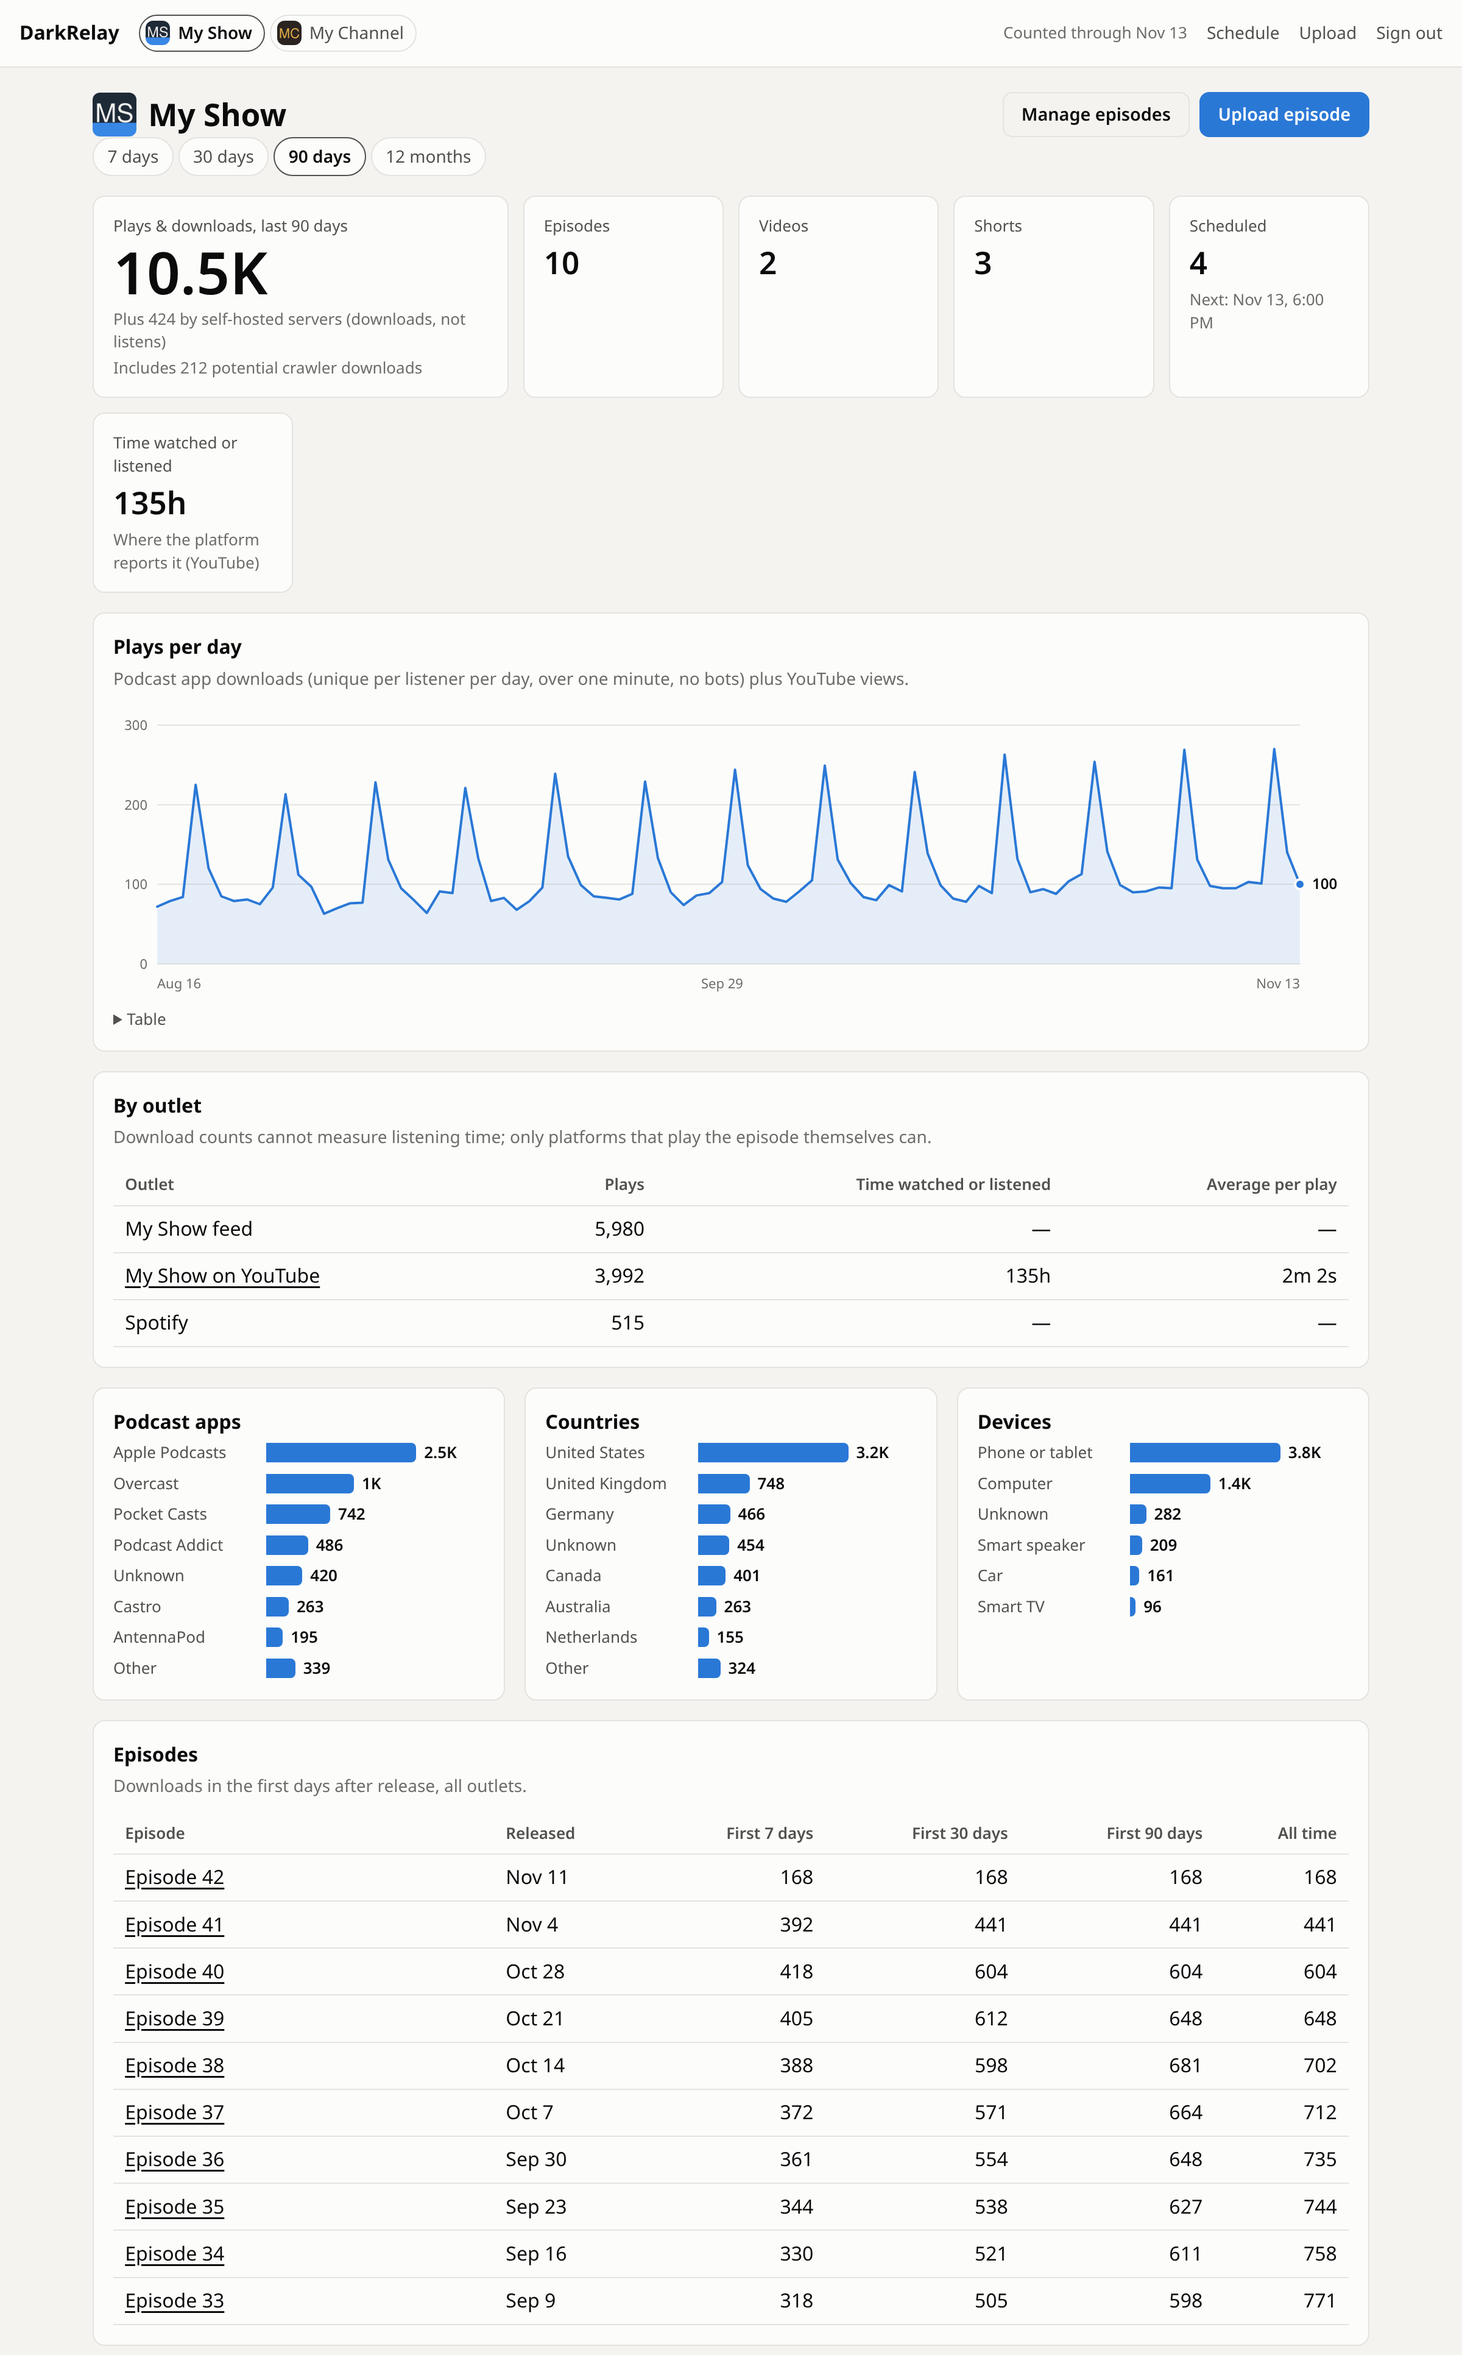
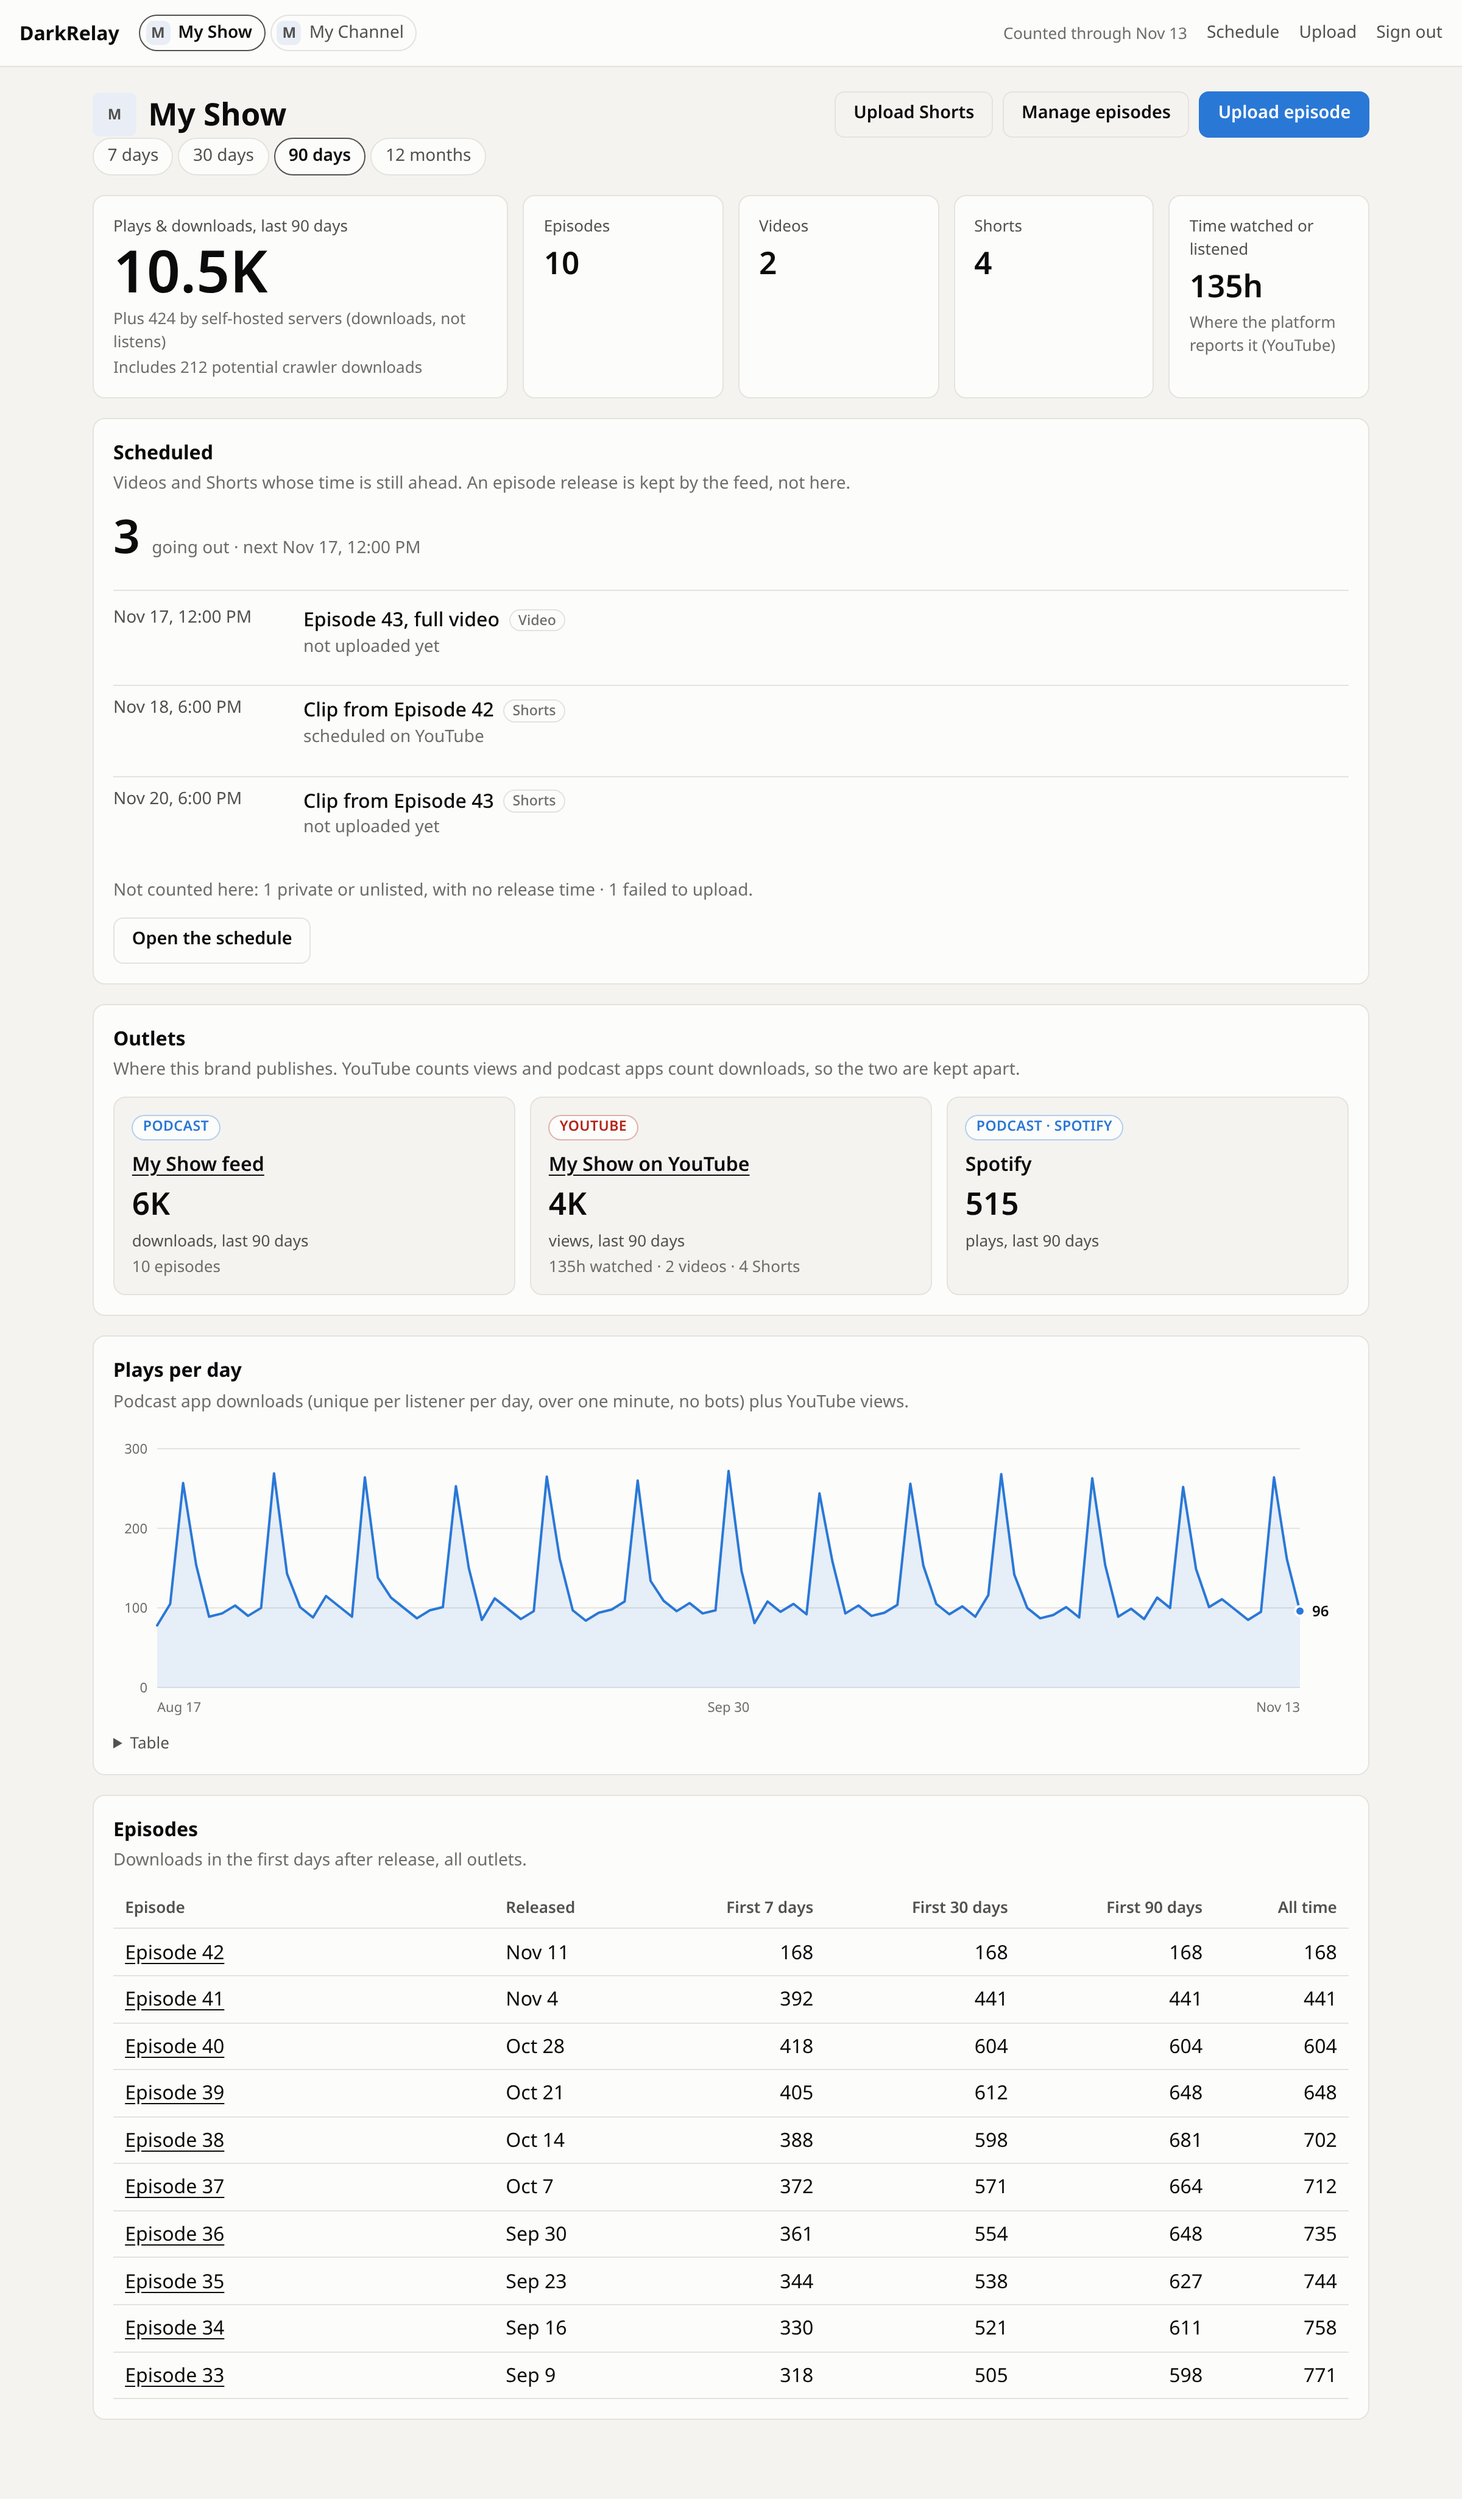
feat: update README with enhanced brand page description and add new podcast outlet image

diff --git a/README.md b/README.md
@@ -8,7 +8,7 @@ One upload in. An RSS feed (iTunes and Podcasting 2.0 tags) out, served from you
 
 **Status:** hosting, feeds, import and migration, download analytics, the dashboard, video and YouTube are all built. DarkRelay is now organised around [brands and outlets](#brands-and-outlets): not every brand is a podcast. See [Roadmap](#roadmap).
 
-![A brand page in the DarkRelay dashboard: plays and downloads for the last 90 days, a Scheduled box with what is still to come, an Outlets box with the podcast feed and the YouTube channel counted apart, plays per day, bar charts of podcast apps, countries and devices, and the episode table with 7-, 30- and 90-day download counts](docs/images/dashboard-brand.png)
+![A brand page in the DarkRelay dashboard: plays and downloads for the last 90 days, a Scheduled box listing the next three things to go out with the date and time of each, an Outlets box with the podcast feed, the YouTube channel and Spotify labelled and counted apart, a plays-per-day chart, and the episode table with 7-, 30- and 90-day download counts](docs/images/dashboard-brand.png)
 
 <sup>A brand page in the dashboard. The screenshots in this README are of a real build filled with placeholder brands and invented numbers.</sup>
 
@@ -448,17 +448,25 @@ npx darkrelay analytics run --from 2026-10-01     # backfill (raw logs are kept 
 
 ### What the dashboard shows
 
-Uploaders get two more things on a brand page: _Upload episode_, and _Upload Shorts_ for a batch of clips (which follows `manage`, so a YouTube-only brand has it too). A **brand switcher** with icons sits in the header whenever you can see more than one brand. On a brand page, anyone with `uploader` for that brand — or `admin` — can replace the icon by clicking it and picking a square JPEG or PNG (128-3000 px, under 2 MB). This follows the brand, not the feed: a brand with no feed at all, such as a YouTube-only one, has its icon changed the same way, which is why `/me` answers with `manage` (brands) as well as `upload` (shows an episode can go to). The icon is checked again in the API — the same rules the CLI applies — so a button the UI happens to show is never the protection. The new icon is stored under a key derived from its bytes, so it appears at once and no cache serves the one it replaced. A brand page sums every outlet and lists its episodes, its **Videos** and its **Shorts** — kept in separate sections, because a Short is found in a feed and a long video is chosen, so one table of both hides how either is doing. Anything that is not out yet is listed at the top of its section, badged _Scheduled_ with the date and time it goes live in your own time zone — whether DarkRelay scheduled it or you scheduled it in YouTube Studio, because the nightly run records the release time the platform is holding (`status.publishAt`) and not just the upload time. A video that is private or unlisted with no release time says that instead, and a failed upload says so with its reason. A YouTube outlet has a page of its own: channel views per day, subscribers gained and lost, Shorts against long-form, and where the views came from. **Schedule** shows what is going out next, across every brand.
+Uploaders get two more things on a brand page: _Upload episode_, and _Upload Shorts_ for a batch of clips (which follows `manage`, so a YouTube-only brand has it too). A **brand switcher** with icons sits in the header whenever you can see more than one brand. On a brand page, anyone with `uploader` for that brand — or `admin` — can replace the icon by clicking it and picking a square JPEG or PNG (128-3000 px, under 2 MB). This follows the brand, not the feed: a brand with no feed at all, such as a YouTube-only one, has its icon changed the same way, which is why `/me` answers with `manage` (brands) as well as `upload` (shows an episode can go to). The icon is checked again in the API — the same rules the CLI applies — so a button the UI happens to show is never the protection. The new icon is stored under a key derived from its bytes, so it appears at once and no cache serves the one it replaced.
+
+A brand page is a summary: the totals, a **Scheduled** box, an **Outlets** box, plays per day, and the episode table. _Scheduled_ counts only what is still ahead of the clock, lists the next few with the date and time each goes live in your own time zone, and says underneath what is not coming — held, failed, or past its slot — rather than folding those into the number. It is counted from both sides: what DarkRelay scheduled, and what the channel is holding whether DarkRelay scheduled it or not, because the nightly run records the release time the platform holds (`status.publishAt`) and not just the upload time. _Outlets_ gives each outlet a tile labelled for what it is — **YouTube** or **Podcast** — counted in that outlet's own word, views or downloads, because adding a view to a download measures nothing.
+
+Each outlet then has its own page. A **YouTube channel** page has channel views per day, subscribers gained and lost, Shorts against long-form, where the views came from, and every video and Short the channel has — the two kept in separate sections, because a Short is found in a feed and a long video is chosen, so one table of both hides how either is doing. Anything not out yet is listed at the top of its section, badged with the date it goes live; a video that is private or unlisted with no release time says that instead, and a failed upload says so with its reason. A **podcast** page has the download breakdowns: podcast apps, countries and devices. Those three live there rather than on the brand page because they are counted from podcast download logs alone — YouTube reports no app, country or device — so on a page that is both outlets at once they would be a breakdown of only half of it. **Schedule** shows what is going out next, across every brand.
 
 ![A YouTube channel outlet page: channel views for the last 90 days, watch time, net subscribers, the plays DarkRelay can account for, a views-per-day chart, the Shorts against long-form split, and a bar chart of traffic sources](docs/images/dashboard-channel.png)
 
 <sup>A channel outlet page. Channel numbers are never added into brand totals, so the page shows both: what the channel did, and what DarkRelay can account for.</sup>
 
+![A podcast outlet page: downloads for the last 90 days with self-hosted and crawler downloads noted apart, the episode count, and bar charts of podcast apps, countries and devices](docs/images/dashboard-podcast.png)
+
+<sup>A podcast outlet page, where the download breakdowns live. The apps are that outlet's own; countries and devices are counted across every podcast outlet the brand has, and the page says so where a brand has more than one.</sup>
+
 ### The schedule in the dashboard
 
-**Schedule** in the header is a cross-brand calendar: every video and Short going out, grouped by day in your own time zone, with where each one stands — not uploaded yet, uploaded and waiting, live, or failed with the reason. Anything with no slot is listed separately, because nothing is ever uploaded without one. It covers content, not episodes: an episode's release is owned by its feed, and finding future ones means reading every manifest, which is too much for a page load.
+**Schedule** in the header is a cross-brand calendar: every video and Short going out, grouped by day in your own time zone, with where each one stands — not uploaded yet, scheduled on YouTube, live, or failed with the reason. Anything with no slot is listed separately, because nothing is ever uploaded without one. It covers content, not episodes: an episode's release is owned by its feed, and finding future ones means reading every manifest, which is too much for a page load.
 
-![The schedule page: counts of scheduled, waiting and failed items, a waiting plan offering six proposed slots, and a day-by-day calendar from Today through the following week, each entry showing its time, brand, kind and state, with a failed upload marked in red](docs/images/dashboard-schedule.png)
+![The schedule page: counts of scheduled, waiting and failed items, a waiting plan offering six proposed slots, and a day-by-day calendar through the following week, each entry showing its time, brand, kind and state with a link to reschedule it, and a failed upload marked in red](docs/images/dashboard-schedule.png)
 
 Each brand has a **slot page** (`#/s/<brand>/slots`) showing the week as a heatmap, a cell per hour, shaded by how that hour has actually done for that brand. A blank cell means nothing has ever been published then — which is information, so it is left blank rather than shaded as though it were bad. Hovering a cell gives the numbers behind it: the score, how many videos it rests on, their first-72h views, how much got watched, and subscribers won.
 
